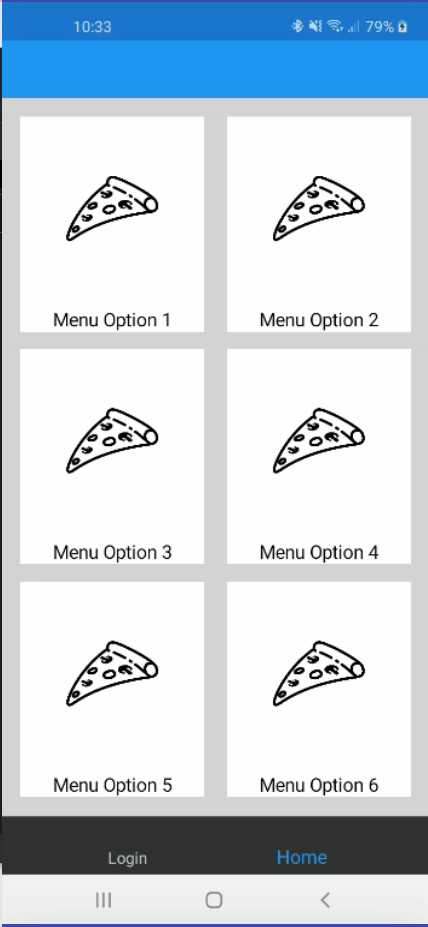
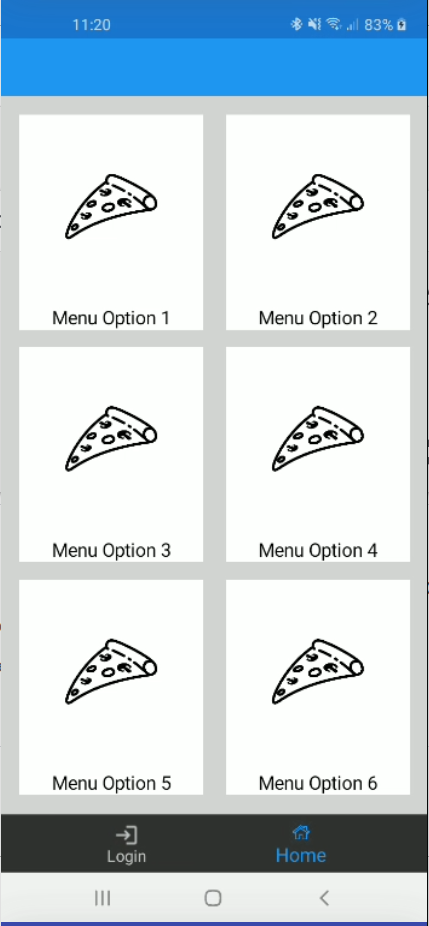
modificando iconos y actualizando imagenes

diff --git a/Practice2/Practice2/Views/MyTabbedPage.xaml b/Practice2/Practice2/Views/MyTabbedPage.xaml
@@ -6,9 +6,9 @@
              xmlns:android="clr-namespace:Xamarin.Forms.PlatformConfiguration.AndroidSpecific;assembly=Xamarin.Forms.Core"
              android:TabbedPage.ToolbarPlacement="Bottom">
 
-    
-    <local:LoginPage Title="Login"/>
-    <local:HomePage Title="Home"/>
+
+    <local:LoginPage Title="Login" IconImageSource="myImage3.png"/>
+    <local:HomePage Title="Home" IconImageSource="https://cdn.iconscout.com/icon/premium/png-256-thumb/home-2329977-1973796.png"/>
     
 
 </TabbedPage>

diff --git a/Practice2/Practice2/Views/SignUpPage.xaml b/Practice2/Practice2/Views/SignUpPage.xaml
@@ -38,7 +38,7 @@
                    TextColor="Black"
                    Margin="10,0,10,10"/>
 
-            <Button Text="Login"
+            <Button Text="Register"
                     Command="{Binding RegistryCommand}"
                     FontSize="Medium"
                     Margin="10,0,10,10"

diff --git a/Practice2/Practice2.Android/Resources/Resource.designer.cs b/Practice2/Practice2.Android/Resources/Resource.designer.cs
@@ -11746,52 +11746,55 @@ namespace Practice2.Droid
 			public const int myImage2 = 2131165313;
 			
 			// aapt resource value: 0x7F070082
-			public const int navigation_empty_icon = 2131165314;
+			public const int myImage3 = 2131165314;
 			
 			// aapt resource value: 0x7F070083
-			public const int notification_action_background = 2131165315;
+			public const int navigation_empty_icon = 2131165315;
 			
 			// aapt resource value: 0x7F070084
-			public const int notification_bg = 2131165316;
+			public const int notification_action_background = 2131165316;
 			
 			// aapt resource value: 0x7F070085
-			public const int notification_bg_low = 2131165317;
+			public const int notification_bg = 2131165317;
 			
 			// aapt resource value: 0x7F070086
-			public const int notification_bg_low_normal = 2131165318;
+			public const int notification_bg_low = 2131165318;
 			
 			// aapt resource value: 0x7F070087
-			public const int notification_bg_low_pressed = 2131165319;
+			public const int notification_bg_low_normal = 2131165319;
 			
 			// aapt resource value: 0x7F070088
-			public const int notification_bg_normal = 2131165320;
+			public const int notification_bg_low_pressed = 2131165320;
 			
 			// aapt resource value: 0x7F070089
-			public const int notification_bg_normal_pressed = 2131165321;
+			public const int notification_bg_normal = 2131165321;
 			
 			// aapt resource value: 0x7F07008A
-			public const int notification_icon_background = 2131165322;
+			public const int notification_bg_normal_pressed = 2131165322;
 			
 			// aapt resource value: 0x7F07008B
-			public const int notification_template_icon_bg = 2131165323;
+			public const int notification_icon_background = 2131165323;
 			
 			// aapt resource value: 0x7F07008C
-			public const int notification_template_icon_low_bg = 2131165324;
+			public const int notification_template_icon_bg = 2131165324;
 			
 			// aapt resource value: 0x7F07008D
-			public const int notification_tile_bg = 2131165325;
+			public const int notification_template_icon_low_bg = 2131165325;
 			
 			// aapt resource value: 0x7F07008E
-			public const int notify_panel_notification_icon_bg = 2131165326;
+			public const int notification_tile_bg = 2131165326;
 			
 			// aapt resource value: 0x7F07008F
-			public const int test_custom_background = 2131165327;
+			public const int notify_panel_notification_icon_bg = 2131165327;
 			
 			// aapt resource value: 0x7F070090
-			public const int tooltip_frame_dark = 2131165328;
+			public const int test_custom_background = 2131165328;
 			
 			// aapt resource value: 0x7F070091
-			public const int tooltip_frame_light = 2131165329;
+			public const int tooltip_frame_dark = 2131165329;
+			
+			// aapt resource value: 0x7F070092
+			public const int tooltip_frame_light = 2131165330;
 			
 			static Drawable()
 			{

diff --git a/Practice2/Practice2/ViewModels/LoginViewModel.cs b/Practice2/Practice2/ViewModels/LoginViewModel.cs
@@ -37,7 +37,7 @@ namespace Practice2.ViewModels
             }
             else
             {
-                await App.Current.MainPage.DisplayAlert("Bienvenido", "Hola " + Email, "Ok");
+                await App.Current.MainPage.DisplayAlert($"Bienvenido", $"Hola {Email}" , "Ok");
             }
         }
 
